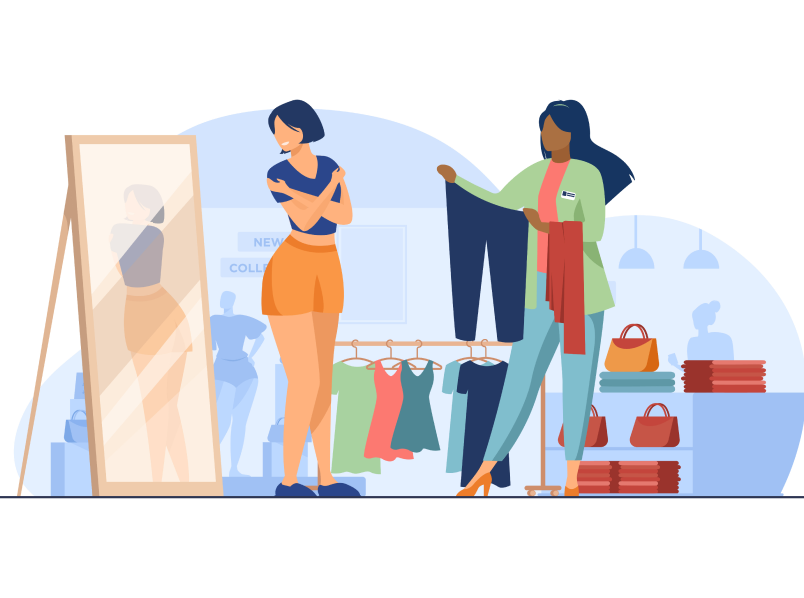
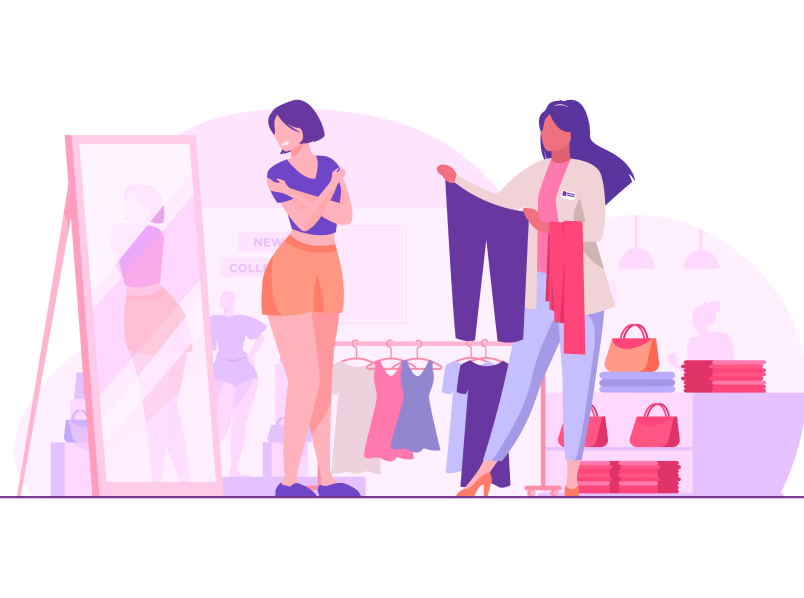
Onboarding: adjusted the images color for cohesiveness and also intergrated the button for onboarding.

diff --git a/src/OnboardingFolder/Slides.js b/src/OnboardingFolder/Slides.js
@@ -5,25 +5,25 @@ export default [
       id: '1',
       title: 'Welcome to CLOSETSHARE',
       description: 'Discover, share, and elevate your fashion style with our vibrant community.',
-      image: require('../assets/OnboardingImages/OnboardingImage_01.png'),
+      image: require('../../assets/OnboardingImages/OnboardingImage_01.png'),
     },
     {
       id: '2',
       title: 'Save Looks You Love.',
       description: 'Like individual posts of outfits you admire and save them to your favorites to revisit anytime.',
-      image: require('../assets/OnboardingImages/OnboardingImage_02.png'),
+      image: require('../../assets/OnboardingImages/OnboardingImage_02.png'),
     },
     {
       id: '3',
       title: 'Navigate to Nearby Stores.',
       description: 'With ClosetShare, we can help you navigate to the nearest local store to find clothes featured in posts, with convenient map directions.',
-      image: require('../assets/OnboardingImages/OnboardingImage_03.png'),
+      image: require('../../assets/OnboardingImages/OnboardingImage_03.png'),
     },
     {
       id: '4',
       title: 'Exclusive In-Store Benefits.',
       description: 'Try clothes in person to find your perfect size and enjoy an extra 10% discount! ClosetShare partners with local stores to support your style and reduce delivery costs.',
-      image: require('../assets/OnboardingImages/OnboardingImage_04.png'),
+      image: require('../../assets/OnboardingImages/OnboardingImage_04.png'),
     },
   ];
   

diff --git a/src/OnboardingFolder/OnboardingScreen.js b/src/OnboardingFolder/OnboardingScreen.js
@@ -5,6 +5,7 @@ import { View, Text, StyleSheet, FlatList, Animated } from 'react-native';
 import Slides from './Slides';
 import OnboardingItem from './OnboardingItem';
 import Paginator from './Paginator';
+import NextButton from './NextButton';
 
 const OnboardingScreen = () => {
   const [currentIndex, setCurrentIndex] =useState(0);
@@ -16,6 +17,12 @@ const OnboardingScreen = () => {
   }).current;
 
   const viewConfig = useRef({ viewAreaCoveragePercentThreshold: 50 }).current;
+
+  const scrollToNext = () => {
+    if (currentIndex < Slides.length - 1) {
+      slidesRef.current.scrollToIndex({ index: currentIndex + 1 });
+    }
+  };
 
   return (
     <View style={styles.container}>
@@ -38,6 +45,7 @@ const OnboardingScreen = () => {
         />
       </View>
 
+      <NextButton scrollTo={scrollToNext} />
       <Paginator data={Slides} scrollX={scrollX}/>
     </View>
   )

diff --git a/src/OnboardingFolder/NextButton.js b/src/OnboardingFolder/NextButton.js
@@ -1,0 +1,31 @@
+// src/OnboardingFolder/NextButton.js
+import React from 'react';
+import { TouchableOpacity, Text, StyleSheet } from 'react-native';
+
+const NextButton = ({ scrollTo }) => {
+  return (
+    <TouchableOpacity style={styles.button} onPress={scrollTo}>
+      <Text style={styles.buttonText}>Next</Text>
+    </TouchableOpacity>
+  );
+};
+
+const styles = StyleSheet.create({
+  button: {
+    backgroundColor: '#493d8a',
+    paddingVertical: 12,
+    paddingHorizontal: 24,
+    borderRadius: 8,
+    marginVertical: 20,
+    alignItems: 'center',
+    justifyContent: 'center',
+  },
+  buttonText: {
+    color: '#fff',
+    fontSize: 16,
+    fontWeight: 'bold',
+  },
+});
+
+export default NextButton;
+

diff --git a/App.js b/App.js
@@ -3,7 +3,7 @@ import { NavigationContainer } from '@react-navigation/native';
 import { createNativeStackNavigator } from '@react-navigation/native-stack'; 
 import LoginScreen from './src/LoginScreen';  
 import HomeScreen from './src/HomeScreen';    
-import OnboardingScreen from './src/OnboardingScreen';
+import OnboardingScreen from './src/OnboardingFolder/OnboardingScreen';
 
 const Stack = createNativeStackNavigator();
 
